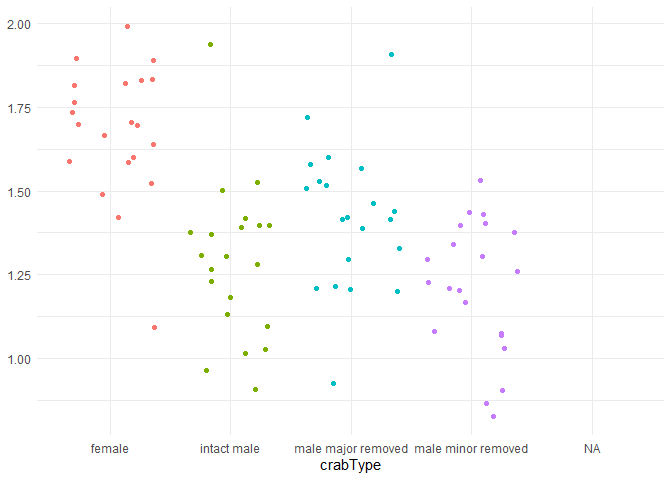
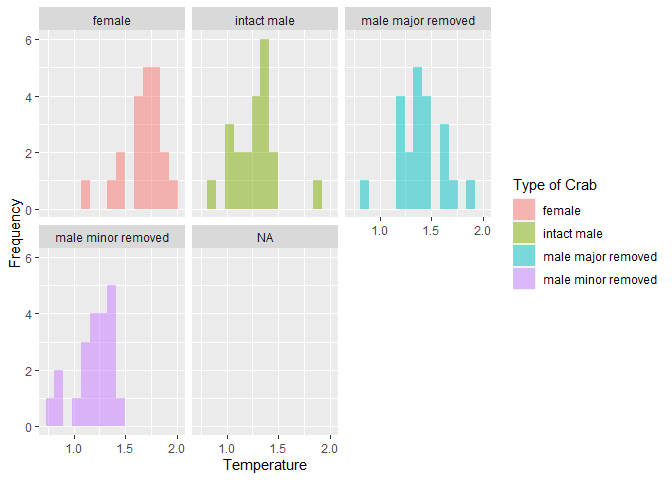
Final commit

diff --git a/README.md b/README.md
@@ -1,7 +1,7 @@
 Lab 6 Comparing means
 ================
 Alec White
-2021-04-28
+2021-05-04
 
 Fill out this report and submit it as your completed assignment.
 
@@ -101,7 +101,10 @@ t.test(formula = species ~ location, data = fish_long)
     ## mean in group Downstream   mean in group Upstream 
     ##                 16.41667                 14.58333
 
-ANSWER
+ANSWER With the p-value from this t-test, we can determine that there is
+a significant difference between the two means since the p-value is
+greater than the alpha value of .05. with this we would reject the null
+hypothesis.
 
 ### Question B
 
@@ -201,16 +204,17 @@ crabs
     ## # ... with 75 more rows
 
 ``` r
- crabs %>% 
-  ggplot(mapping = aes(x = crabType, y = bodyTemperature)) +
-  geom_jitter(aes(color = crabType)) +
-  labs(y = NULL) +
-  guides(color = "none") +
-  theme_minimal() +
-  theme(strip.placement = "outside")
+crabs %>% 
+  ggplot(aes(x = bodyTemperature)) +
+  geom_histogram(
+    aes(fill = crabType ), 
+    bins = 15, 
+    alpha = 0.5,
+    position= "identity",
+    na.rm = TRUE)+
+  labs(x= "Temperature", y="Frequency", fill="Type of Crab")+
+  facet_wrap(~crabType)
 ```
-
-    ## Warning: Removed 1 rows containing missing values (geom_point).
 
 ![](README_files/figure-gfm/unnamed-chunk-3-1.png)<!-- -->
 
@@ -218,6 +222,10 @@ crabs
 
 > Does body temperature vary among crab types? State the null and
 > alternative hypothesis, conduct and ANOVA, and interpret the results.
+
+The null hypothesis is that there will be no difference in temperature
+among the different crab types. The alternative hypothesis is that there
+is a difference in temperature between the crab types.
 
 ``` r
 aov_crabs <-
@@ -247,3 +255,7 @@ summary(aov_crabs)
     ## ---
     ## Signif. codes:  0 '***' 0.001 '**' 0.01 '*' 0.05 '.' 0.1 ' ' 1
     ## 1 observation deleted due to missingness
+
+The Anova gives us an F-value that we can interpret as large enough to
+assume decent variation between the different crab type’s recorded
+temperatures. With this we can reject the null hypothesis.
